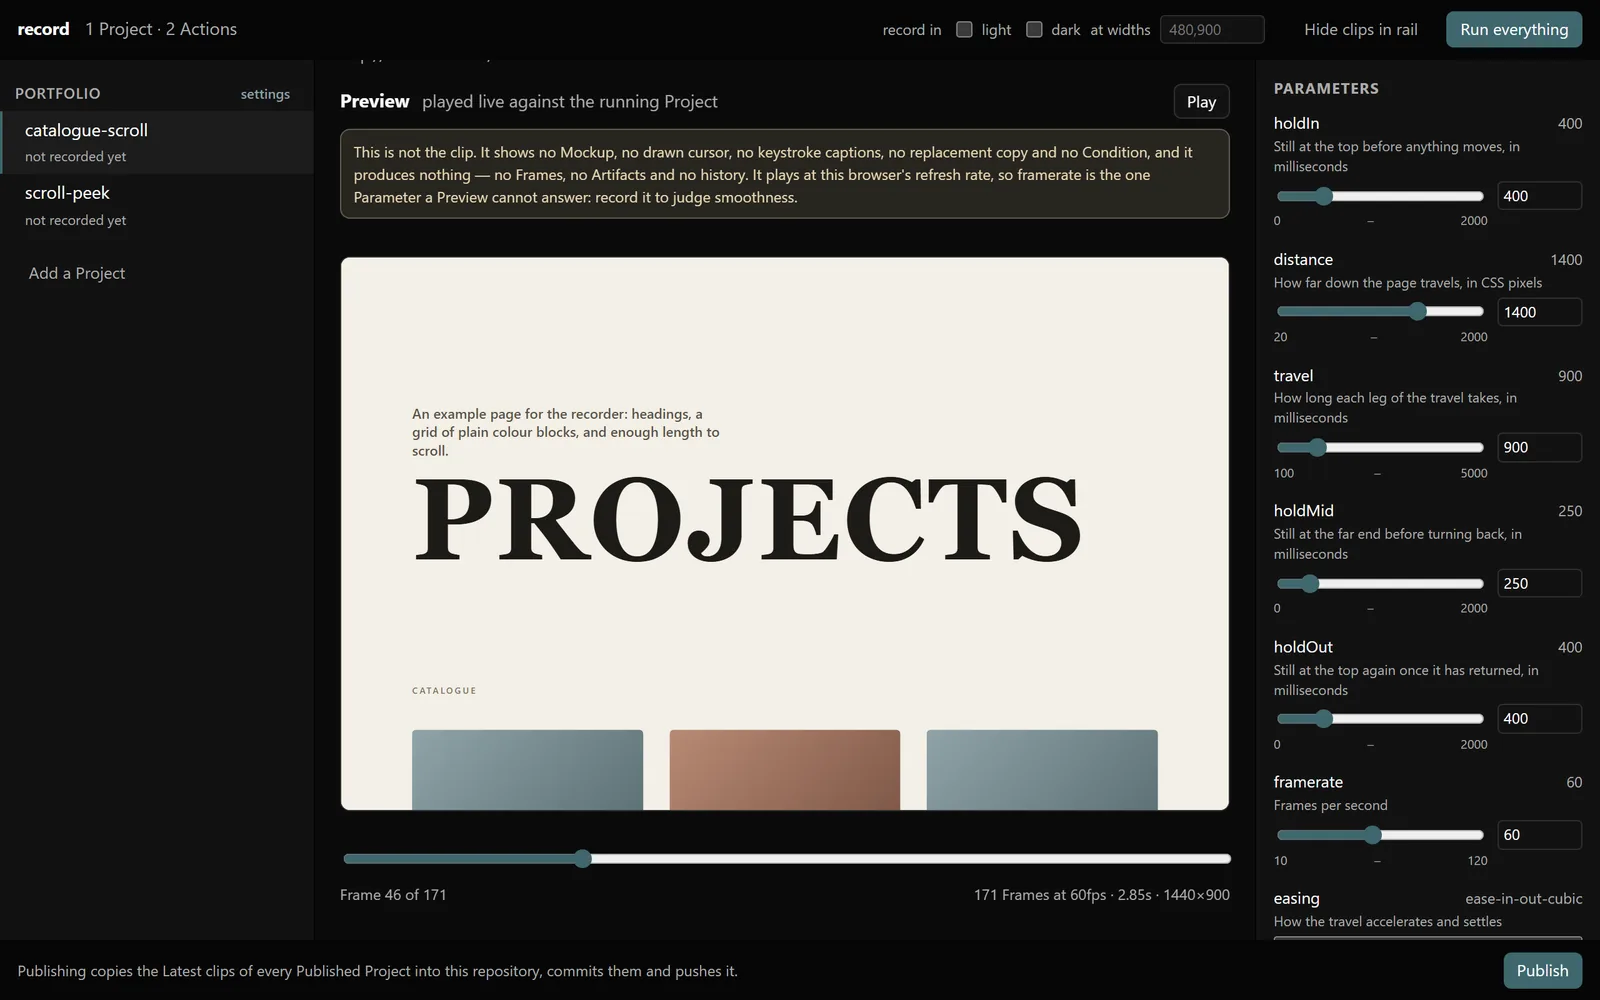
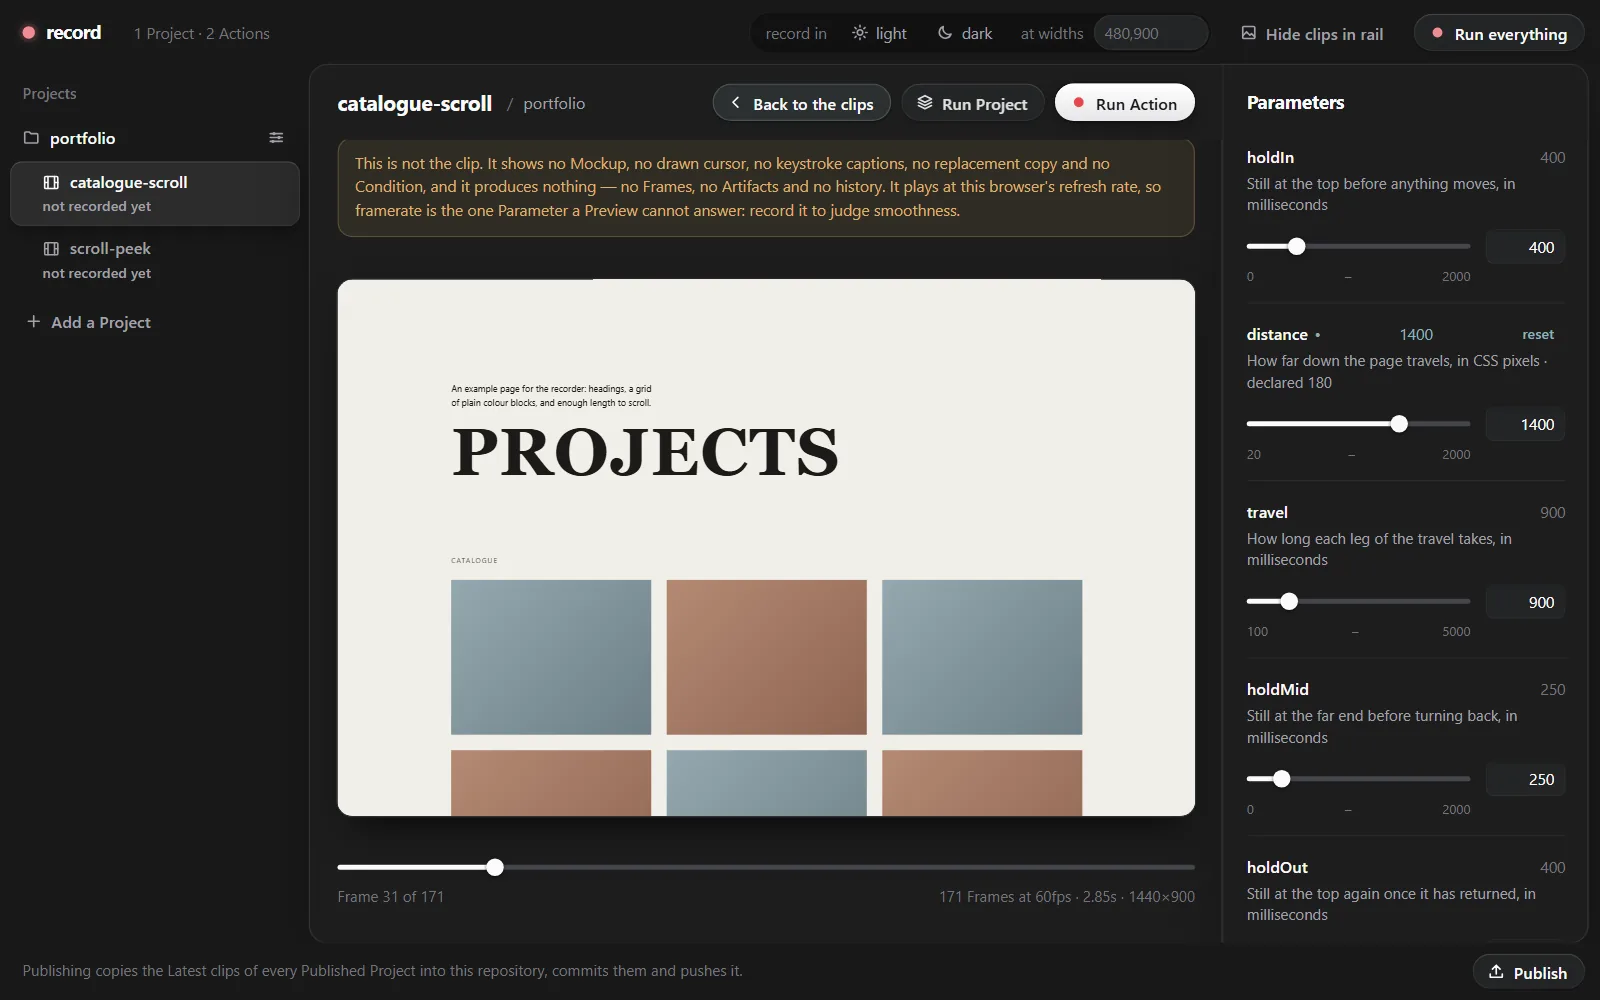
Retake the Record Engine's Still after its UI overhaul
The app's interface was redrawn in record #64-#67. Taken from record's
origin/main (56c9b48) at 1280x800, device scale 1.25, with the same kind
of made-up example page previewed as before, paused on frame 31 with the
scrubber in view, so the alt text still describes it.

The friction log gets the two guard denials this cost, both of which were
the guard being right.

diff --git a/docs/friction-log.md b/docs/friction-log.md
@@ -508,3 +508,28 @@ in the denial above are the giveaway, since they name `EnterWorktree` and a pull
 request, which a guard carrying this repository's `delivery` block does not. So
 expect the old behaviour for the rest of any session that resyncs, and read a
 denial's vocabulary before believing it is current.
+
+## 2026-09-23 — retaking the Record Engine's Still
+
+**Attempted**: `git init` and `git add` of a throwaway example page in the
+session's scratchpad (outside this repository), so the `record` app's example
+Project had a commit to read for staleness. First through `cd "$S/example"; git add …`,
+then with a literal `cd` to the scratch directory in a call of its own.
+
+**Refused by**: the vendored worktree guard (`PreToolUse`), both times.
+
+```
+Denied: `git add` does not run in the main checkout.
+```
+
+**Why, and why the second one was correct**: the first was the documented rule —
+a `cd` through a variable is unreadable, so the guard falls back to the tool's
+cwd. The second is the Bash tool's own behaviour: a `cd` to a directory OUTSIDE
+the project does not persist — the next call prints "Shell cwd was reset to
+C:\Users\Chris\Desktop\portfolio" — so the literal-`cd`-in-its-own-call recipe
+that works for a worktree does not work for a scratch directory, and the `git add`
+really would have run in the main checkout. The guard stopped a real mistake.
+
+**Fix**: none needed in the guard. Git in a scratch directory has to be `git -C
+<literal path>` on every command, never a separate `cd`. Here it was avoided: the
+Project's `source_repository` was pointed at an existing scratch clone instead.
